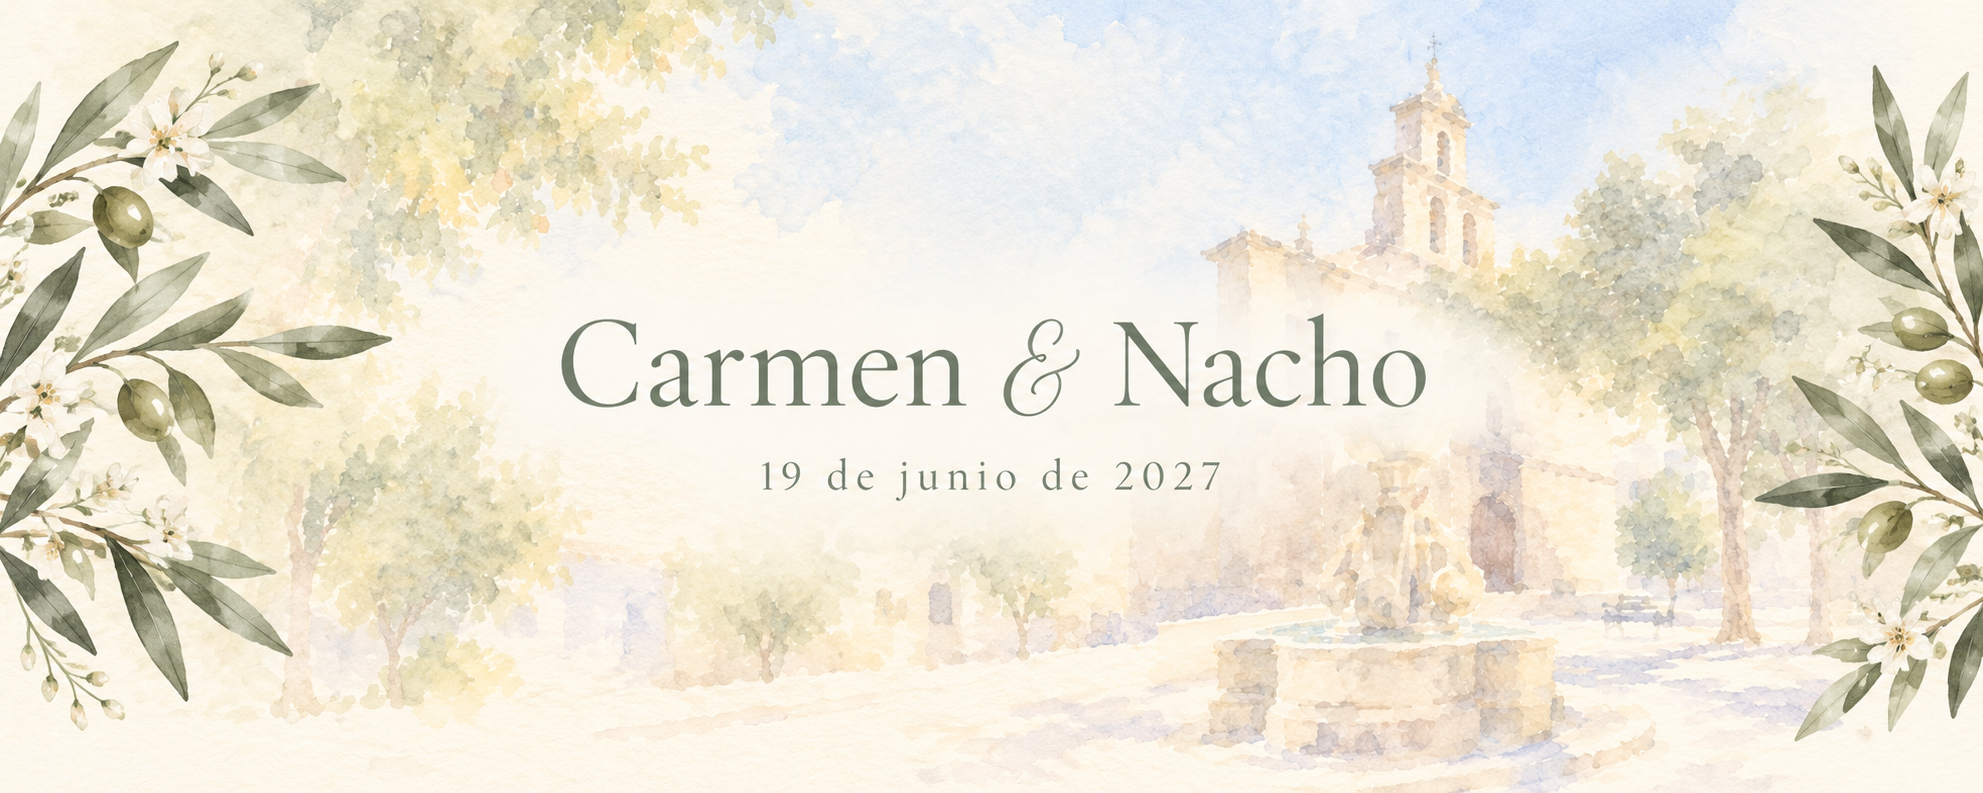
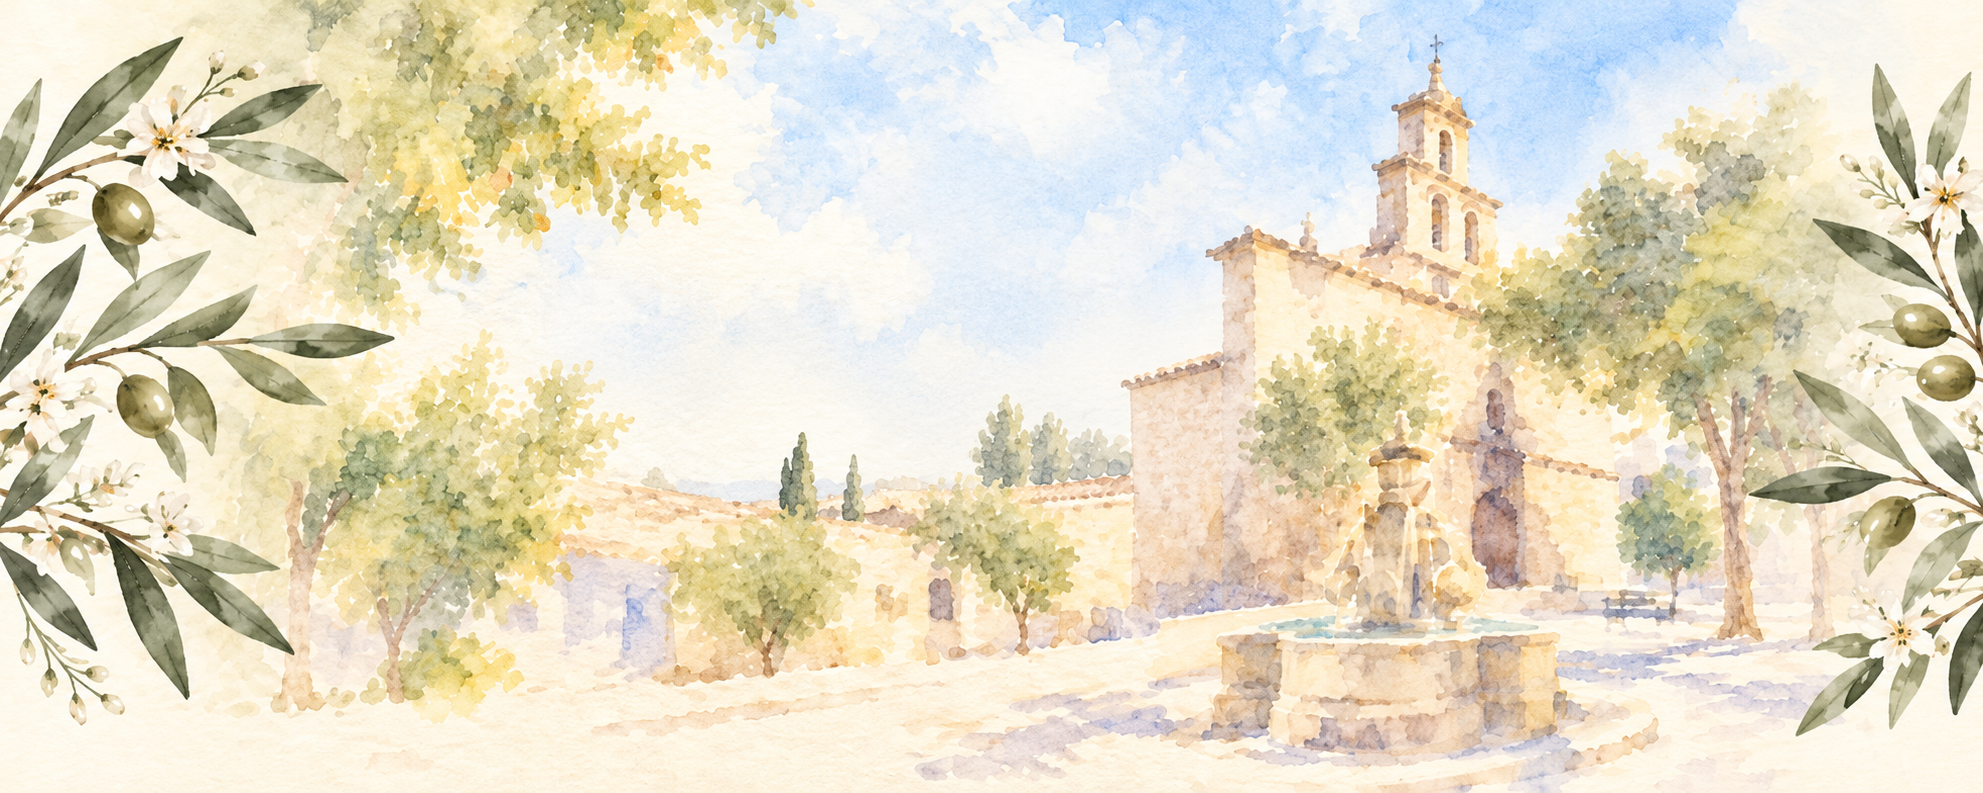
Add files via upload

diff --git a/index.html b/index.html
@@ -23,7 +23,7 @@ a{color:inherit}
 .nav-links a{text-decoration:none;padding:7px 0;color:var(--sage-dark);font-size:.98rem}
 .hero{min-height:88vh;display:grid;place-items:center;text-align:center;padding:76px 22px;position:relative;overflow:hidden;background:
  linear-gradient(rgba(248,245,237,.48),rgba(248,245,237,.58)),
- url("assets/acuarela-sanbartolome.png") center center / cover no-repeat,
+ url("assets/acuarela-cabecera.png") center center / cover no-repeat,
  var(--ivory)}
 .hero:before,.hero:after{content:"";position:absolute;width:220px;height:330px;border:1px solid rgba(123,139,115,.35);border-radius:100% 0 100% 0;transform:rotate(35deg);pointer-events:none}
 .hero:before{left:-120px;top:10%}.hero:after{right:-120px;bottom:2%;transform:rotate(215deg)}
@@ -90,7 +90,7 @@ footer p{margin:0;font: .8rem Arial,sans-serif;letter-spacing:.08em}
 <section class="hero" id="inicio">
   <div class="hero-inner">
     <div class="kicker">¡Nos casamos!</div>
-   <h1>Carmen <span class="amp">&</span><br>Nacho</h1>
+    <h1>Carmen <span class="amp">&</span><br>Nacho</h1>
     <div class="ornament" aria-hidden="true">✳</div>
     <div class="hero-date">19 · JUNIO · 2027 &nbsp; | &nbsp; 17:00 H</div>
     <p class="hero-place">Iglesia de San Bartolomé</p>
@@ -117,7 +117,7 @@ footer p{margin:0;font: .8rem Arial,sans-serif;letter-spacing:.08em}
         <p>Iglesia de San Bartolomé</p>
         <p class="small">19 de junio de 2027</p>
         <!-- Sustituir el enlace por la dirección exacta de la iglesia cuando esté confirmada -->
-        <p style="margin-top:16px"><a class="btn secondary" href="https://www.google.com/maps/search/?api=1&query=Iglesia+de+San+Bartolom%C3%A9" target="_blank" rel="noopener">Cómo llegar</a></p>
+        <p style="margin-top:16px"><a class="btn secondary" href="https://www.google.com/maps/search/?api=1&query=Iglesia+de+San+Bartolom%C3%A9+Ja%C3%A9n" target="_blank" rel="noopener">Cómo llegar</a></p>
       </article>
       <article class="detail">
         <h3>Después, lo celebramos</h3>
@@ -140,7 +140,7 @@ footer p{margin:0;font: .8rem Arial,sans-serif;letter-spacing:.08em}
       <div class="event"><div class="time">20:00 h</div><div><h3>Celebración</h3><p>Hacienda Vandelvira, Baeza. Brindis, cena y tiempo para disfrutar juntos.</p><p><a href="https://www.google.com/maps/search/?api=1&query=Hacienda+Vandelvira+Baeza" target="_blank" rel="noopener noreferrer">Cómo llegar a Hacienda Vandelvira</a></p></div></div>
       <div class="event"><div class="time">22:30 h</div><div><h3>¡A bailar!</h3><p>Música y fiesta para terminar el día como se merece.</p></div></div>
     </div>
-    <p class="note">Horarios orientativos, pendientes de confirmación.</p>
+    <p class="note">Ceremonia en la Iglesia de San Bartolomé de Jaén a las 17:00 h. Celebración en Hacienda Vandelvira, Baeza, a las 20:00 h.</p>
   </div>
 </section>
 
@@ -153,7 +153,7 @@ footer p{margin:0;font: .8rem Arial,sans-serif;letter-spacing:.08em}
       <p class="small">Añade aquí el enlace de tu formulario de Google Forms para que las respuestas queden registradas en tu hoja de cálculo.</p>
       <div class="rsvp-actions">
         <!-- Reemplazar FORMULARIO_GOOGLE_FORMS_URL por el enlace real del formulario -->
-        <a class="btn" href="https://docs.google.com/forms/" target="_blank" rel="noopener">Confirmar asistencia</a>
+        <a class="btn" href="https://docs.google.com/forms/d/e/1FAIpQLScRqXpjd9rgKG0qXmNYR87osYfuwMM5e0qgkdL0_4AEK5IWsg/viewform?usp=header" target="_blank" rel="noopener">Confirmar asistencia</a>
         <a class="btn secondary" href="mailto:?subject=Boda%20de%20Carmen%20y%20Nacho">Contactar</a>
       </div>
     </div>

diff --git a/README.md b/README.md
@@ -1,26 +1,17 @@
-# Invitación digital · Carmen & Nacho
+# Invitación digital de Carmen y Nacho
 
-Web estática para la boda de Carmen y Nacho.
+**Importante:** estos archivos deben quedar en la raíz del repositorio GitHub `boda-carmen-nacho` (no dentro de otra carpeta).
 
-## Archivos
-- `index.html`: invitación adaptable a móviles, menú colapsable, cuenta atrás y cronograma.
-- `assets/acuarela-cabecera.png`: acuarela de cabecera.
+- `index.html`: web de la invitación.
+- `assets/acuarela-cabecera.png`: acuarela sin textos.
+- `.nojekyll`: configuración de GitHub Pages.
 
-## Datos incluidos
-- 19 de junio de 2027.
-- Ceremonia: Iglesia de San Bartolomé, 17:00 h.
-- Celebración: Hacienda Vandelvira, Baeza, 20:00 h.
+Datos: ceremonia el 19 de junio de 2027 a las 17:00 en la Iglesia de San Bartolomé de Jaén; celebración a las 20:00 en Hacienda Vandelvira, Baeza (Jaén). El botón de confirmación enlaza al Google Forms facilitado.
 
-## Probar en local
-Abre `index.html` con Chrome, Edge o Firefox.
-
-## Publicar en GitHub Pages
-1. Inicia sesión en https://github.com y pulsa **New repository**.
-2. Nombre sugerido: `boda-carmen-nacho`; selecciona **Public** y crea el repositorio.
-3. Pulsa **Add file → Upload files** y sube `index.html`, la carpeta `assets` completa, `README.md` y `.nojekyll`.
-4. Pulsa **Commit changes**.
-5. Entra en **Settings → Pages**. En **Build and deployment**, elige **Deploy from a branch**, rama `main`, carpeta `/ (root)` y pulsa **Save**.
-6. La URL pública aparecerá en esa sección cuando termine la publicación.
-
-## Antes de compartir
-Sustituye el enlace provisional de Google Forms por el enlace real del formulario y revisa que el enlace de Maps de la iglesia corresponda al templo correcto. El formulario debe estar publicado en Google Forms para guardar respuestas.
+## Actualizar GitHub Pages
+1. Abre https://github.com/bnccm/boda-carmen-nacho
+2. En la raíz del repositorio, selecciona **Add file → Upload files**.
+3. Sube `index.html`, `.nojekyll` y la carpeta `assets` (con `acuarela-cabecera.png`).
+4. Confirma con **Commit changes** en la rama `main`. Si GitHub pregunta si quieres reemplazar `index.html` y la imagen, confirma.
+5. En **Settings → Pages**, verifica `Deploy from a branch`, `main`, `/(root)`.
+6. Espera un minuto y abre https://bnccm.github.io/boda-carmen-nacho/ con `Ctrl+F5`.
